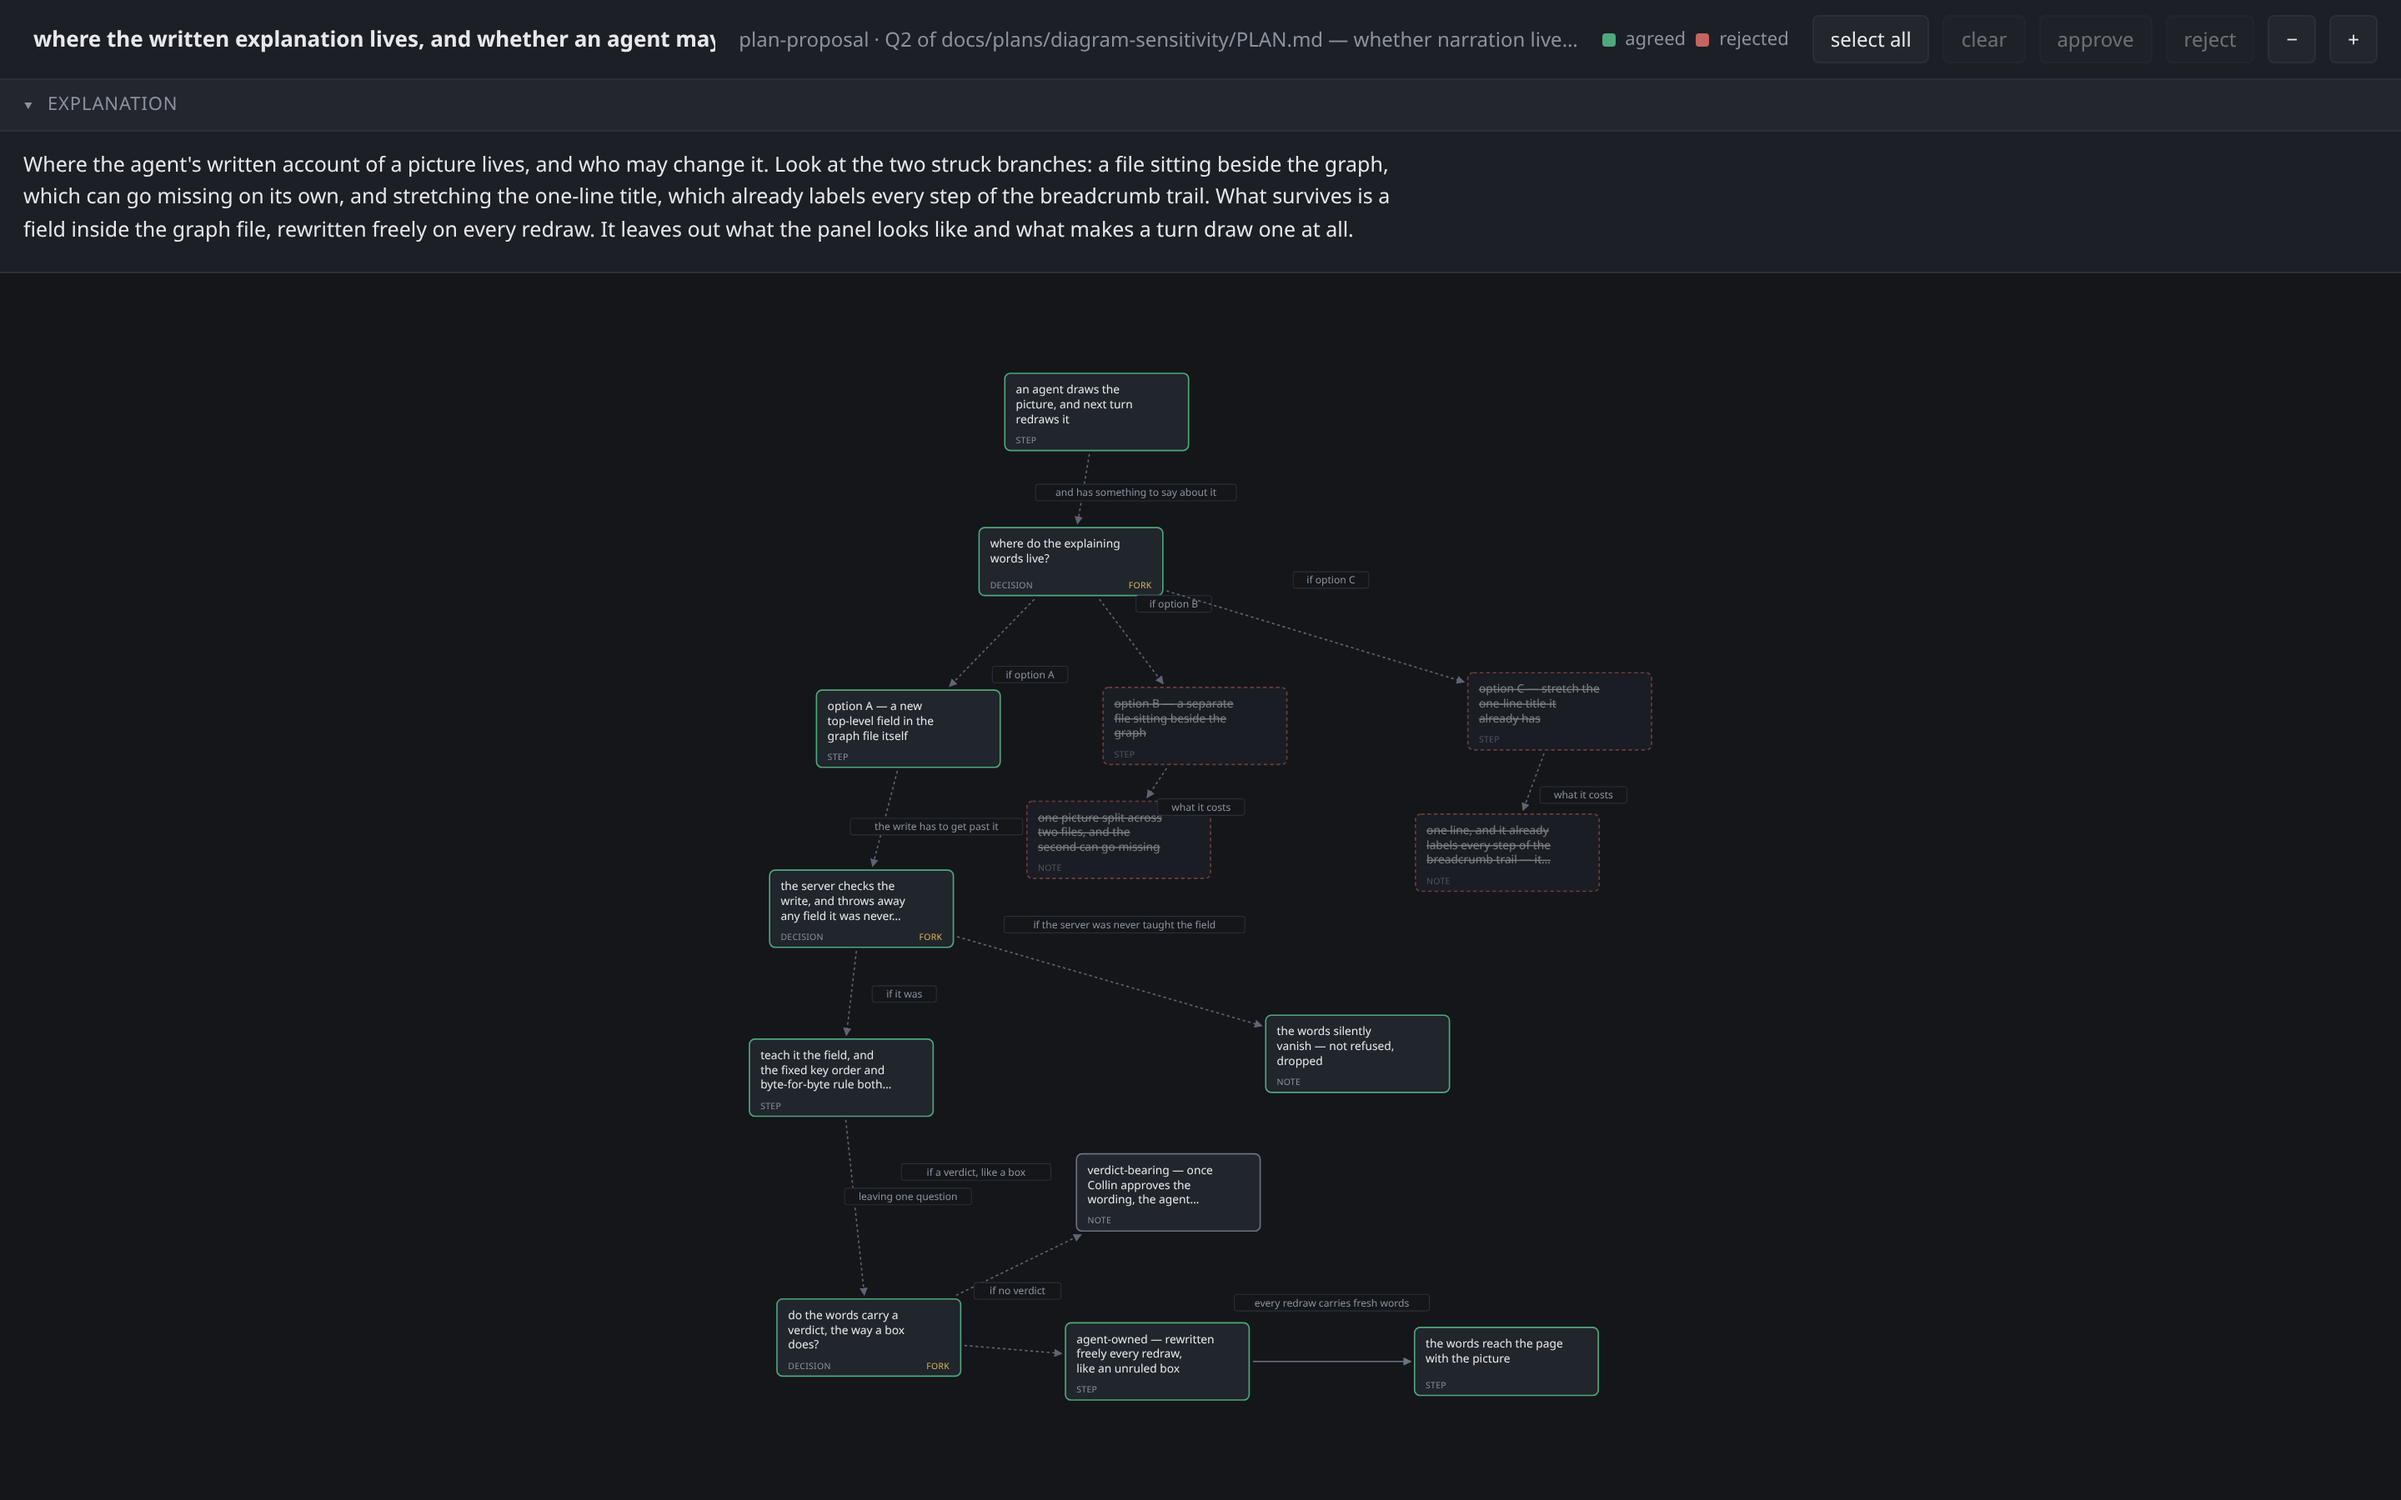
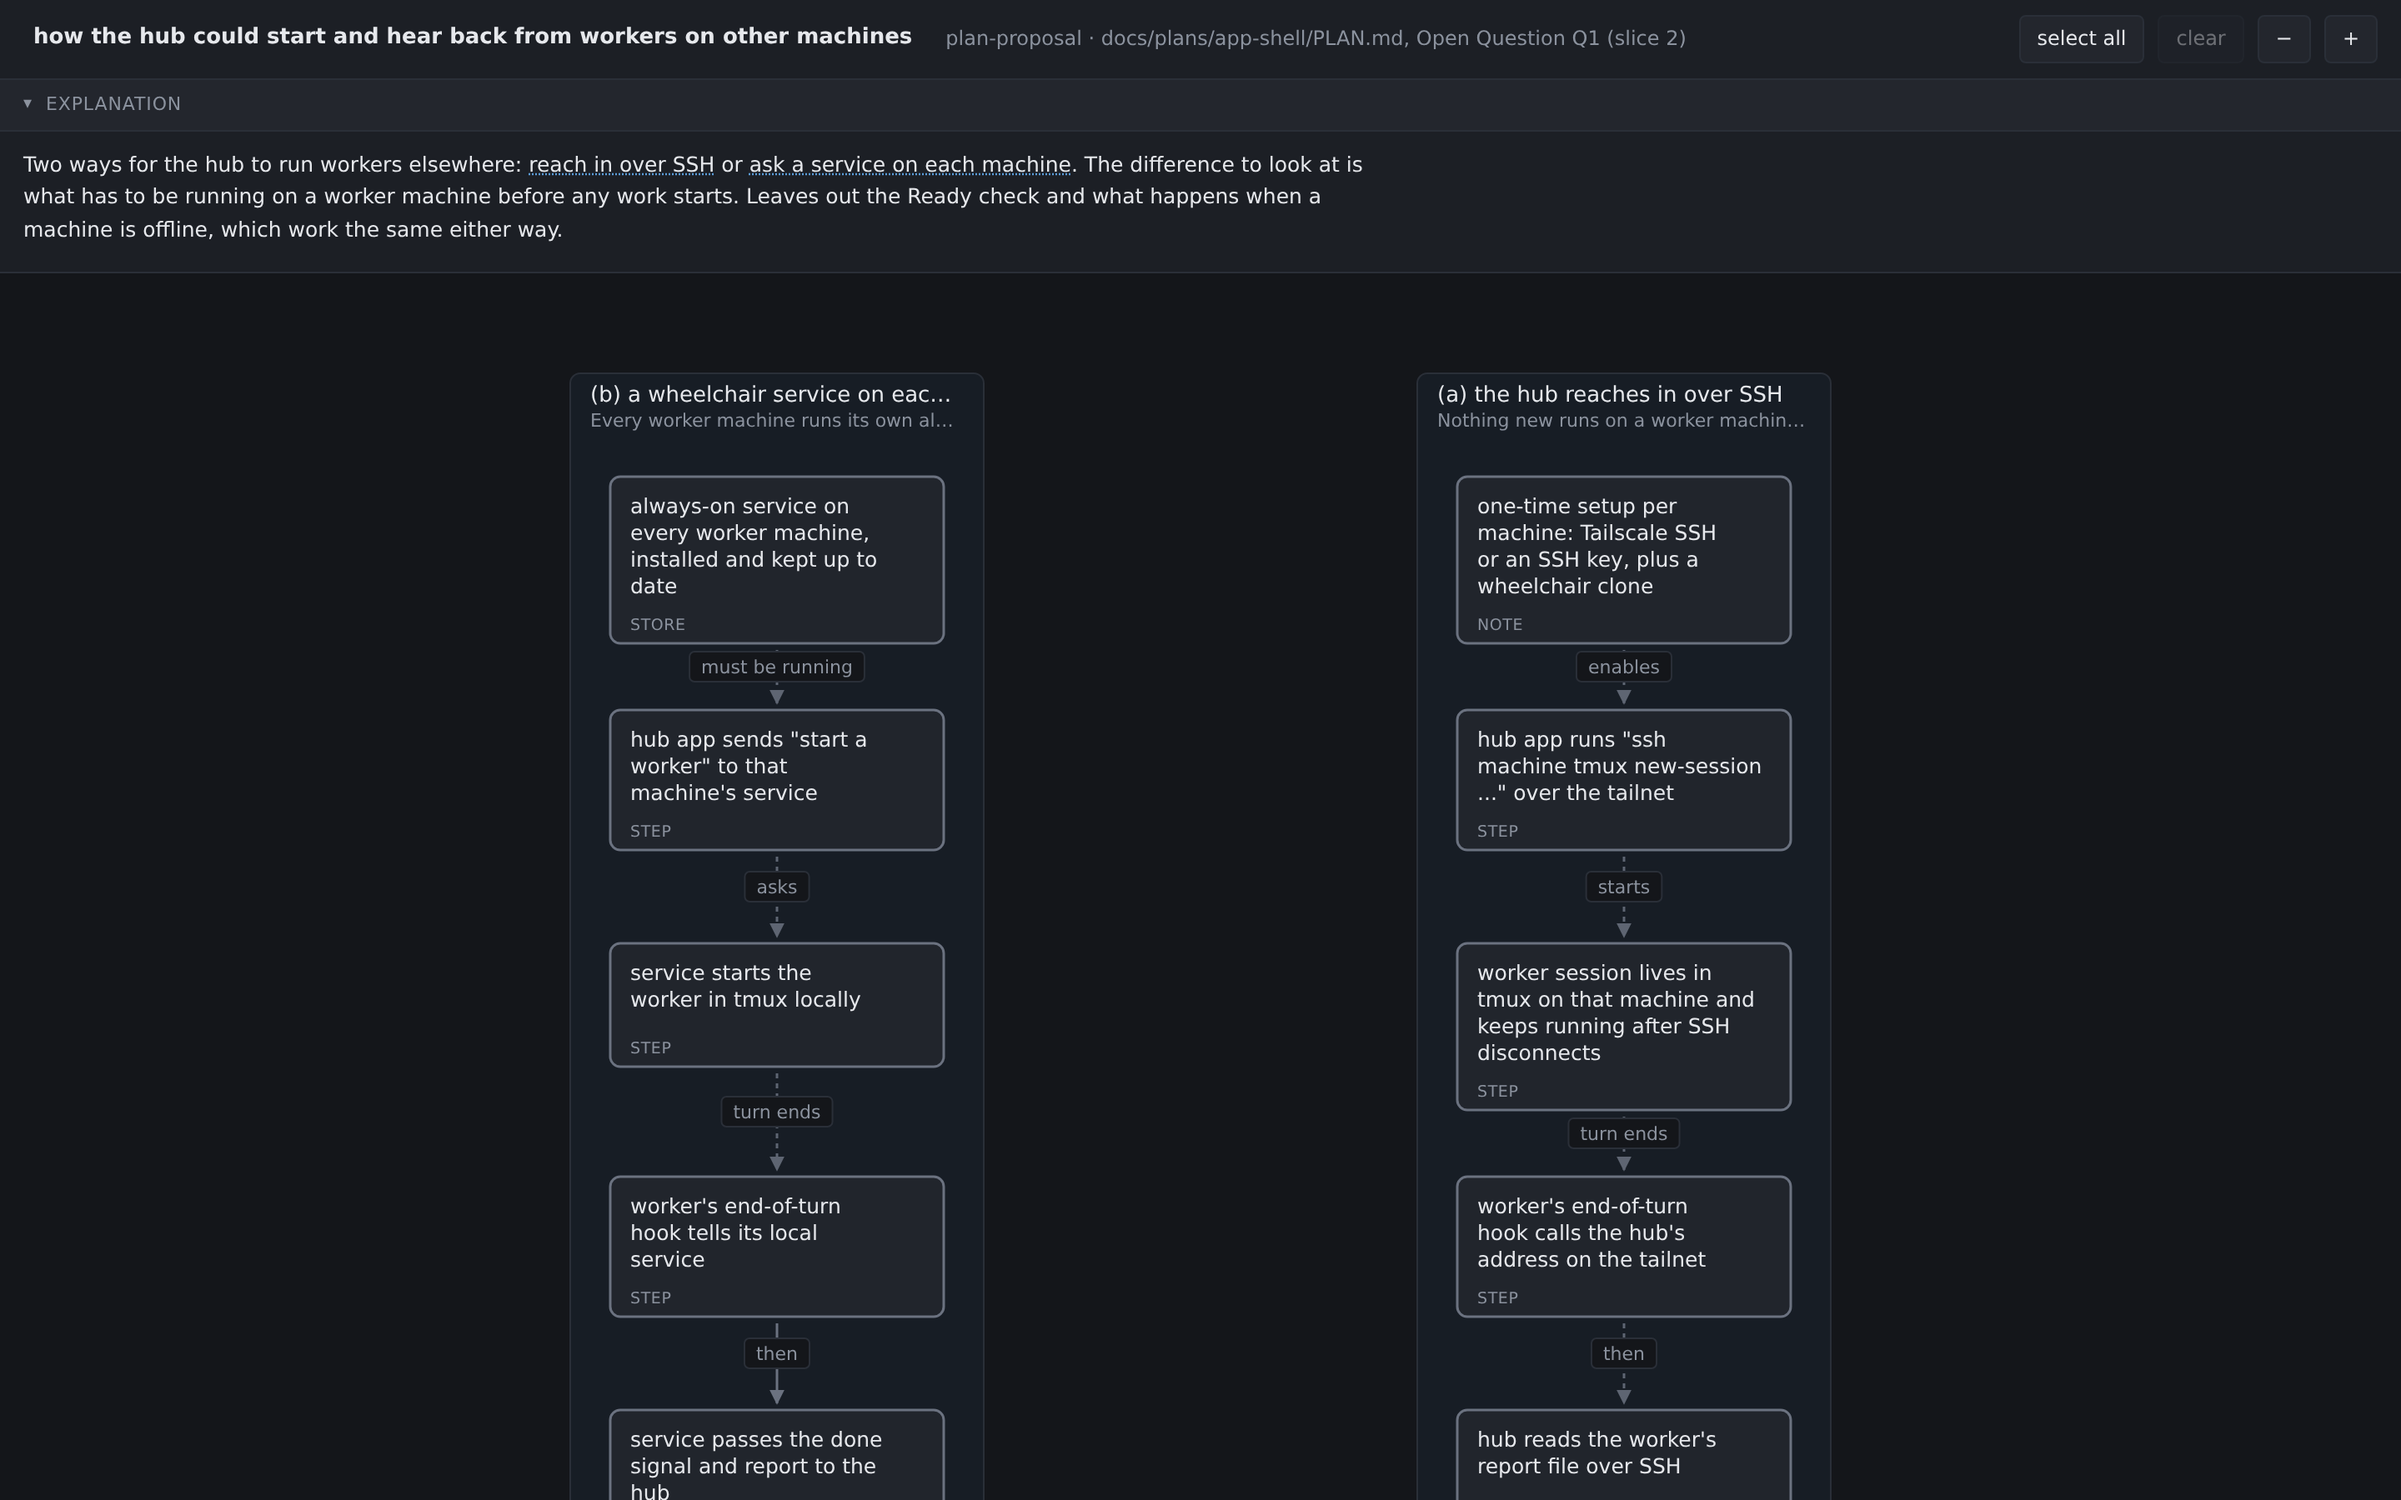
remove-graph-verdicts T4: retake README screenshot without verdict styling

diff --git a/docs/plans/remove-graph-verdicts/reports/T4.md b/docs/plans/remove-graph-verdicts/reports/T4.md
@@ -1,0 +1,34 @@
+# T4 report — retake docs/viewer.png
+
+## Changed
+- `docs/viewer.png` overwritten (2880x1800, dark, explanation panel above a two-column flow).
+
+## Graph used
+`docs/plans/app-shell/graphs/hub-to-machines.json` — 10 nodes, has `explanation`, no `run`. Its explanation
+reads "Two ways for the hub to run workers elsewhere: ... Leaves out the Ready check ..." and says nothing about
+striking, rejecting, agreeing or verdicts (also no such words anywhere in the JSON).
+
+## Commands
+```
+npm --prefix viewer ci
+cp docs/plans/app-shell/graphs/hub-to-machines.json <scratch>/cache/graphs/
+node <scratch>/shot.js <worktree> <scratch>
+```
+`shot.js` (scratch, not in repo) picks a free port, runs
+`node viewer/server.js --port <port> --cache-root <scratch>/cache --open <graph>` with WHEELCHAIR_NO_BROWSER=1,
+opens the page with Playwright (1440x900, deviceScaleFactor 2, colorScheme dark), waits for
+`window.__viewer.graph()`, waits 1s, screenshots the viewport, then SIGTERMs the server it started
+(pid 3645295, port 34159; confirmed gone afterwards).
+
+## Output
+```
+$ file docs/viewer.png
+docs/viewer.png: PNG image data, 2880 x 1800, 8-bit/color RGB, non-interlaced
+```
+
+I viewed the image: explanation panel visible, flow readable, no approve/reject buttons, no legend, no
+strikethrough or red/green verdict boxes.
+
+## Choices
+- Graph choice (`docs/viewer.png` content): `app-shell/hub-to-machines.json`, over other candidates, as the first clean 8–15-node match.
+- Capture is the viewport as the page opens, so the lower part of the flow is cut off at the bottom edge (`docs/viewer.png` framing).
